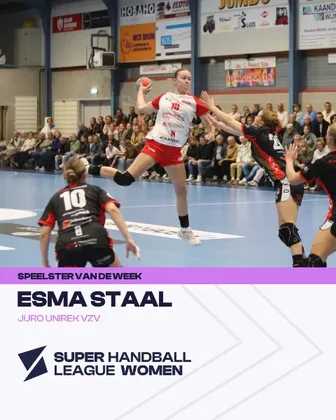
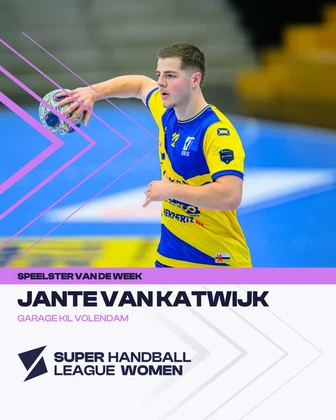
Dashboard thumbnail for Player of the Month, new Player of the Week thumbnails, no empty data step for Announcement, ignore stray screenshots

diff --git a/story-generator/script.js b/story-generator/script.js
@@ -2843,10 +2843,10 @@
   // ---------- Main render ----------
   // Today as 2026-11-11: the file name of a Player of the Week (it is not tied to a match)
   function todayStamp() { const d = new Date(); return d.getFullYear() + '-' + String(d.getMonth() + 1).padStart(2, '0') + '-' + String(d.getDate()).padStart(2, '0'); }
-  // Player of the Week has no round or match to pick: hide step 1 and number the remaining steps again
+  // Player of the Week/Month and Announcement have no round or match to pick: hide step 1 and number the remaining steps again
   function syncDataStep() {
     const step = roundSelectField.closest('.panel-step'); if (!step) return;
-    step.style.display = isPW() ? 'none' : '';
+    step.style.display = (isPW() || mode === 'announcement') ? 'none' : '';
     let n = 0;
     step.parentNode.querySelectorAll('.panel-step').forEach(sec => {
       if (sec.style.display === 'none') return;
